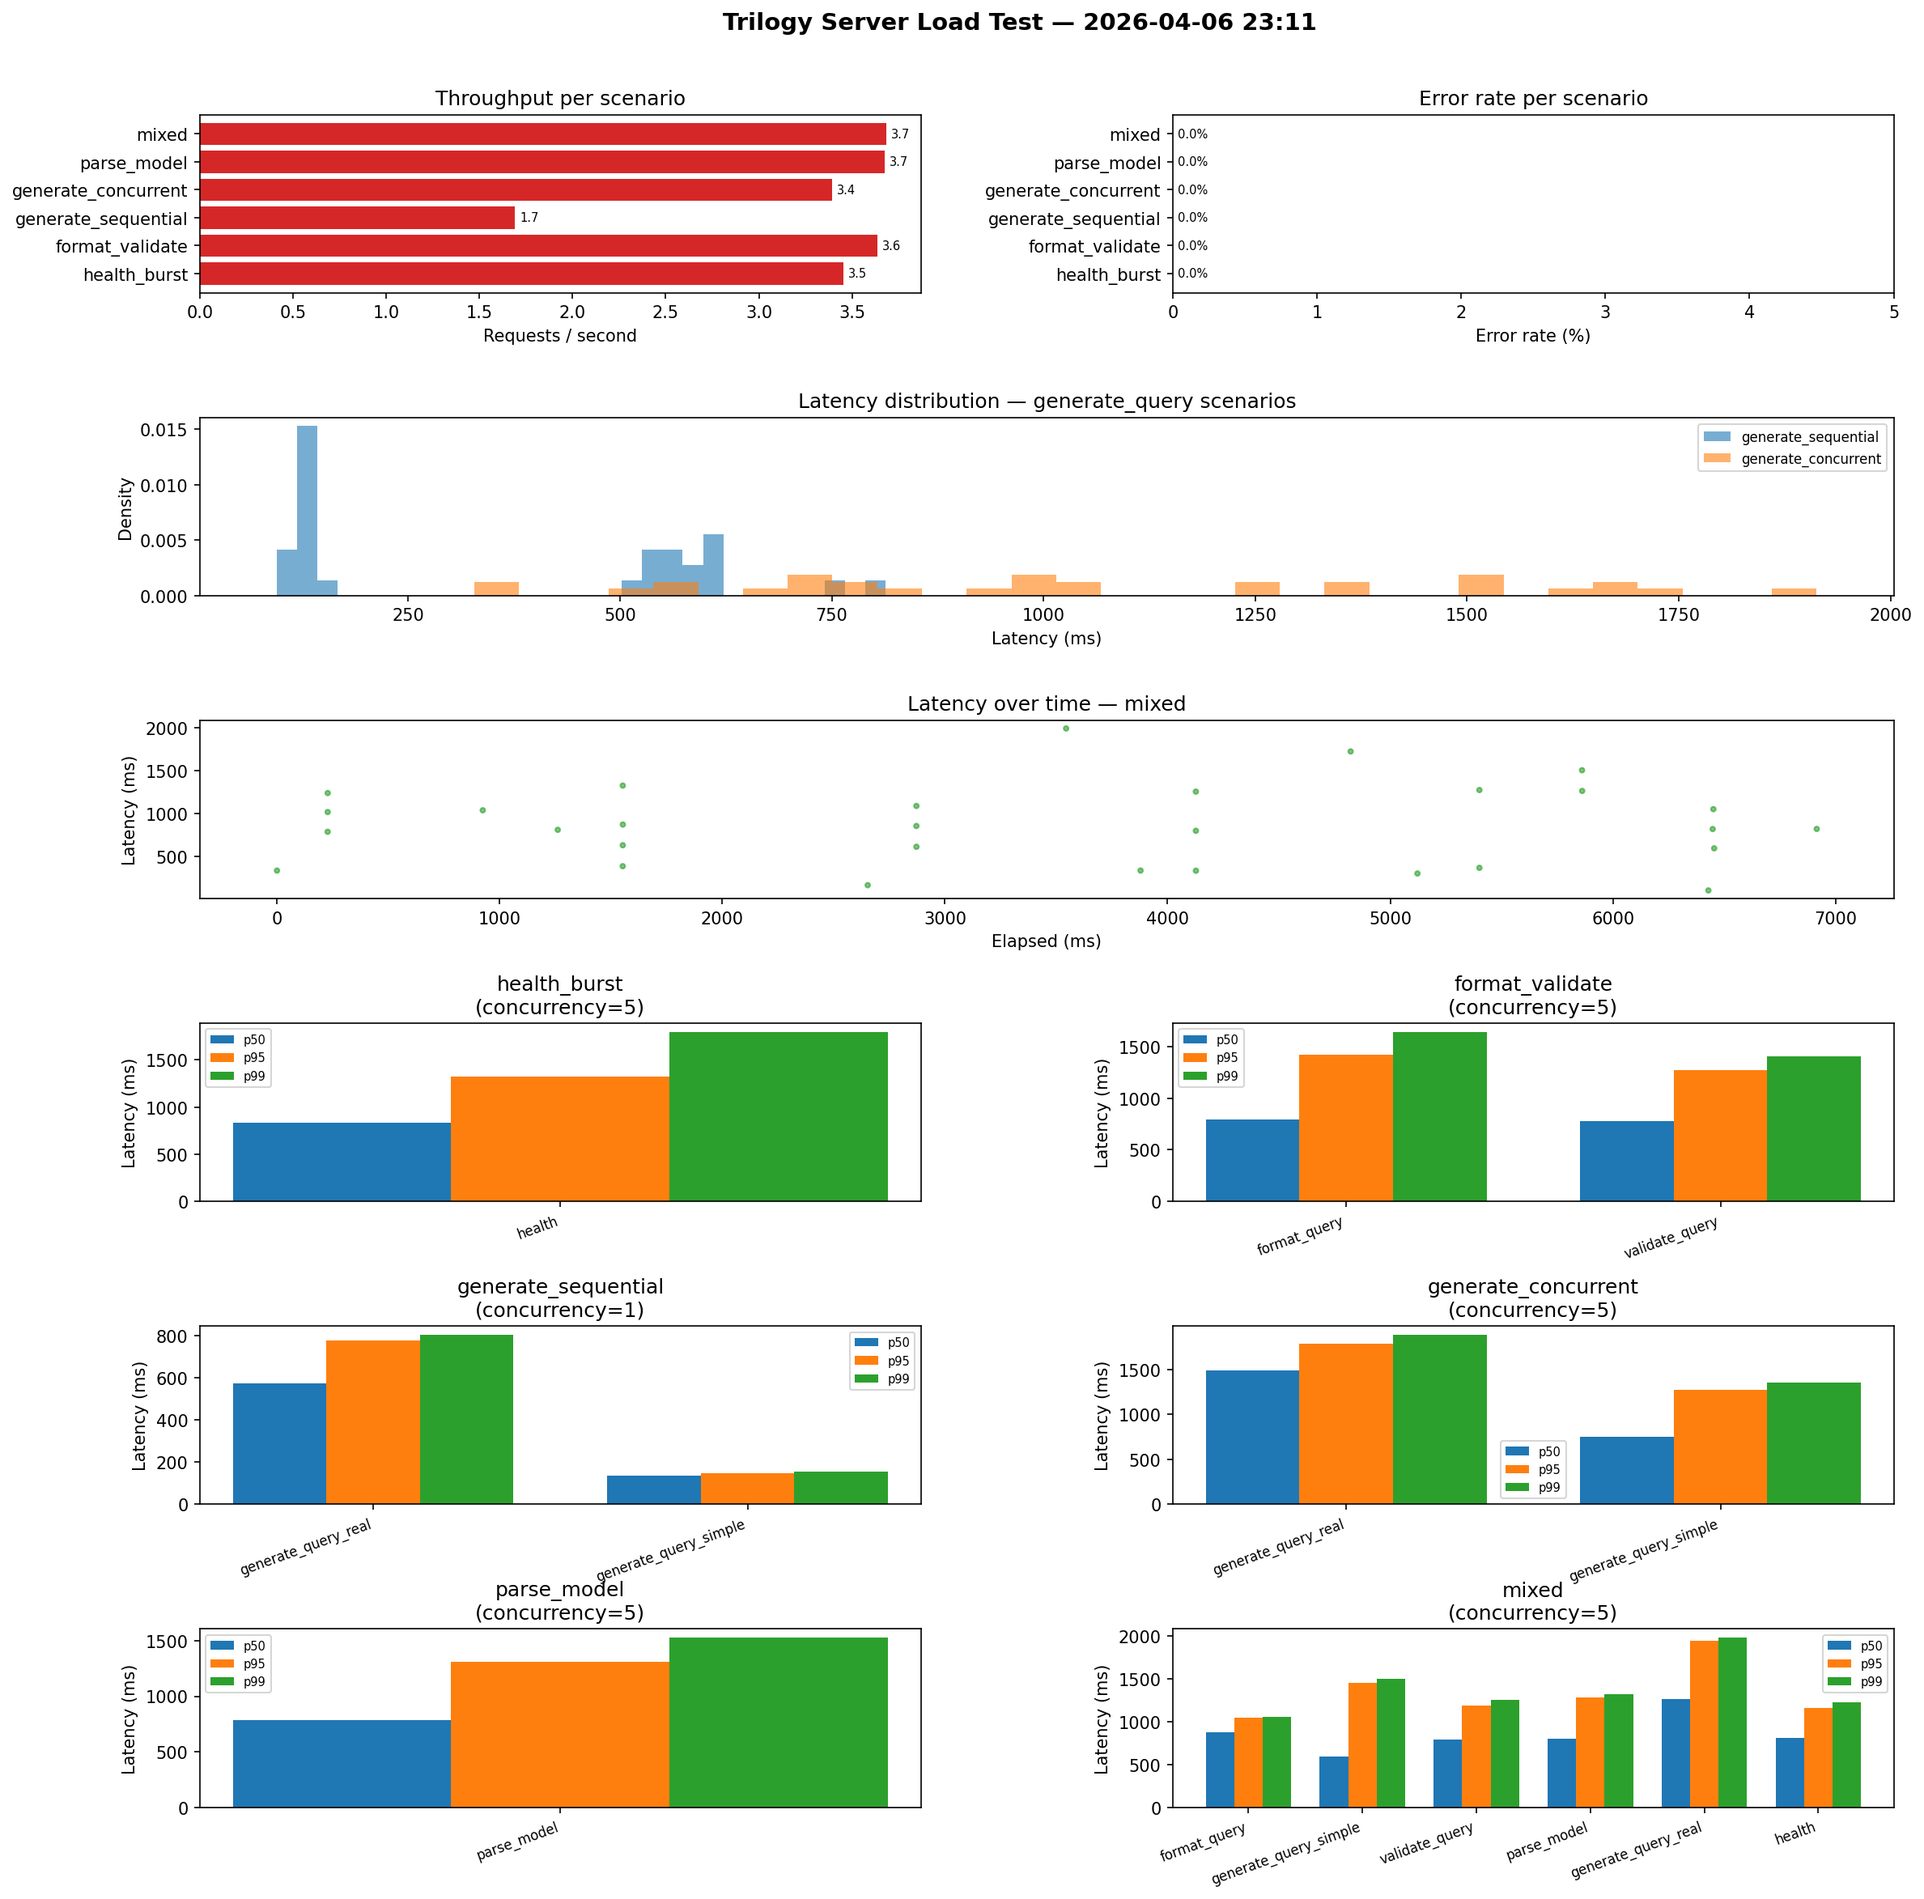
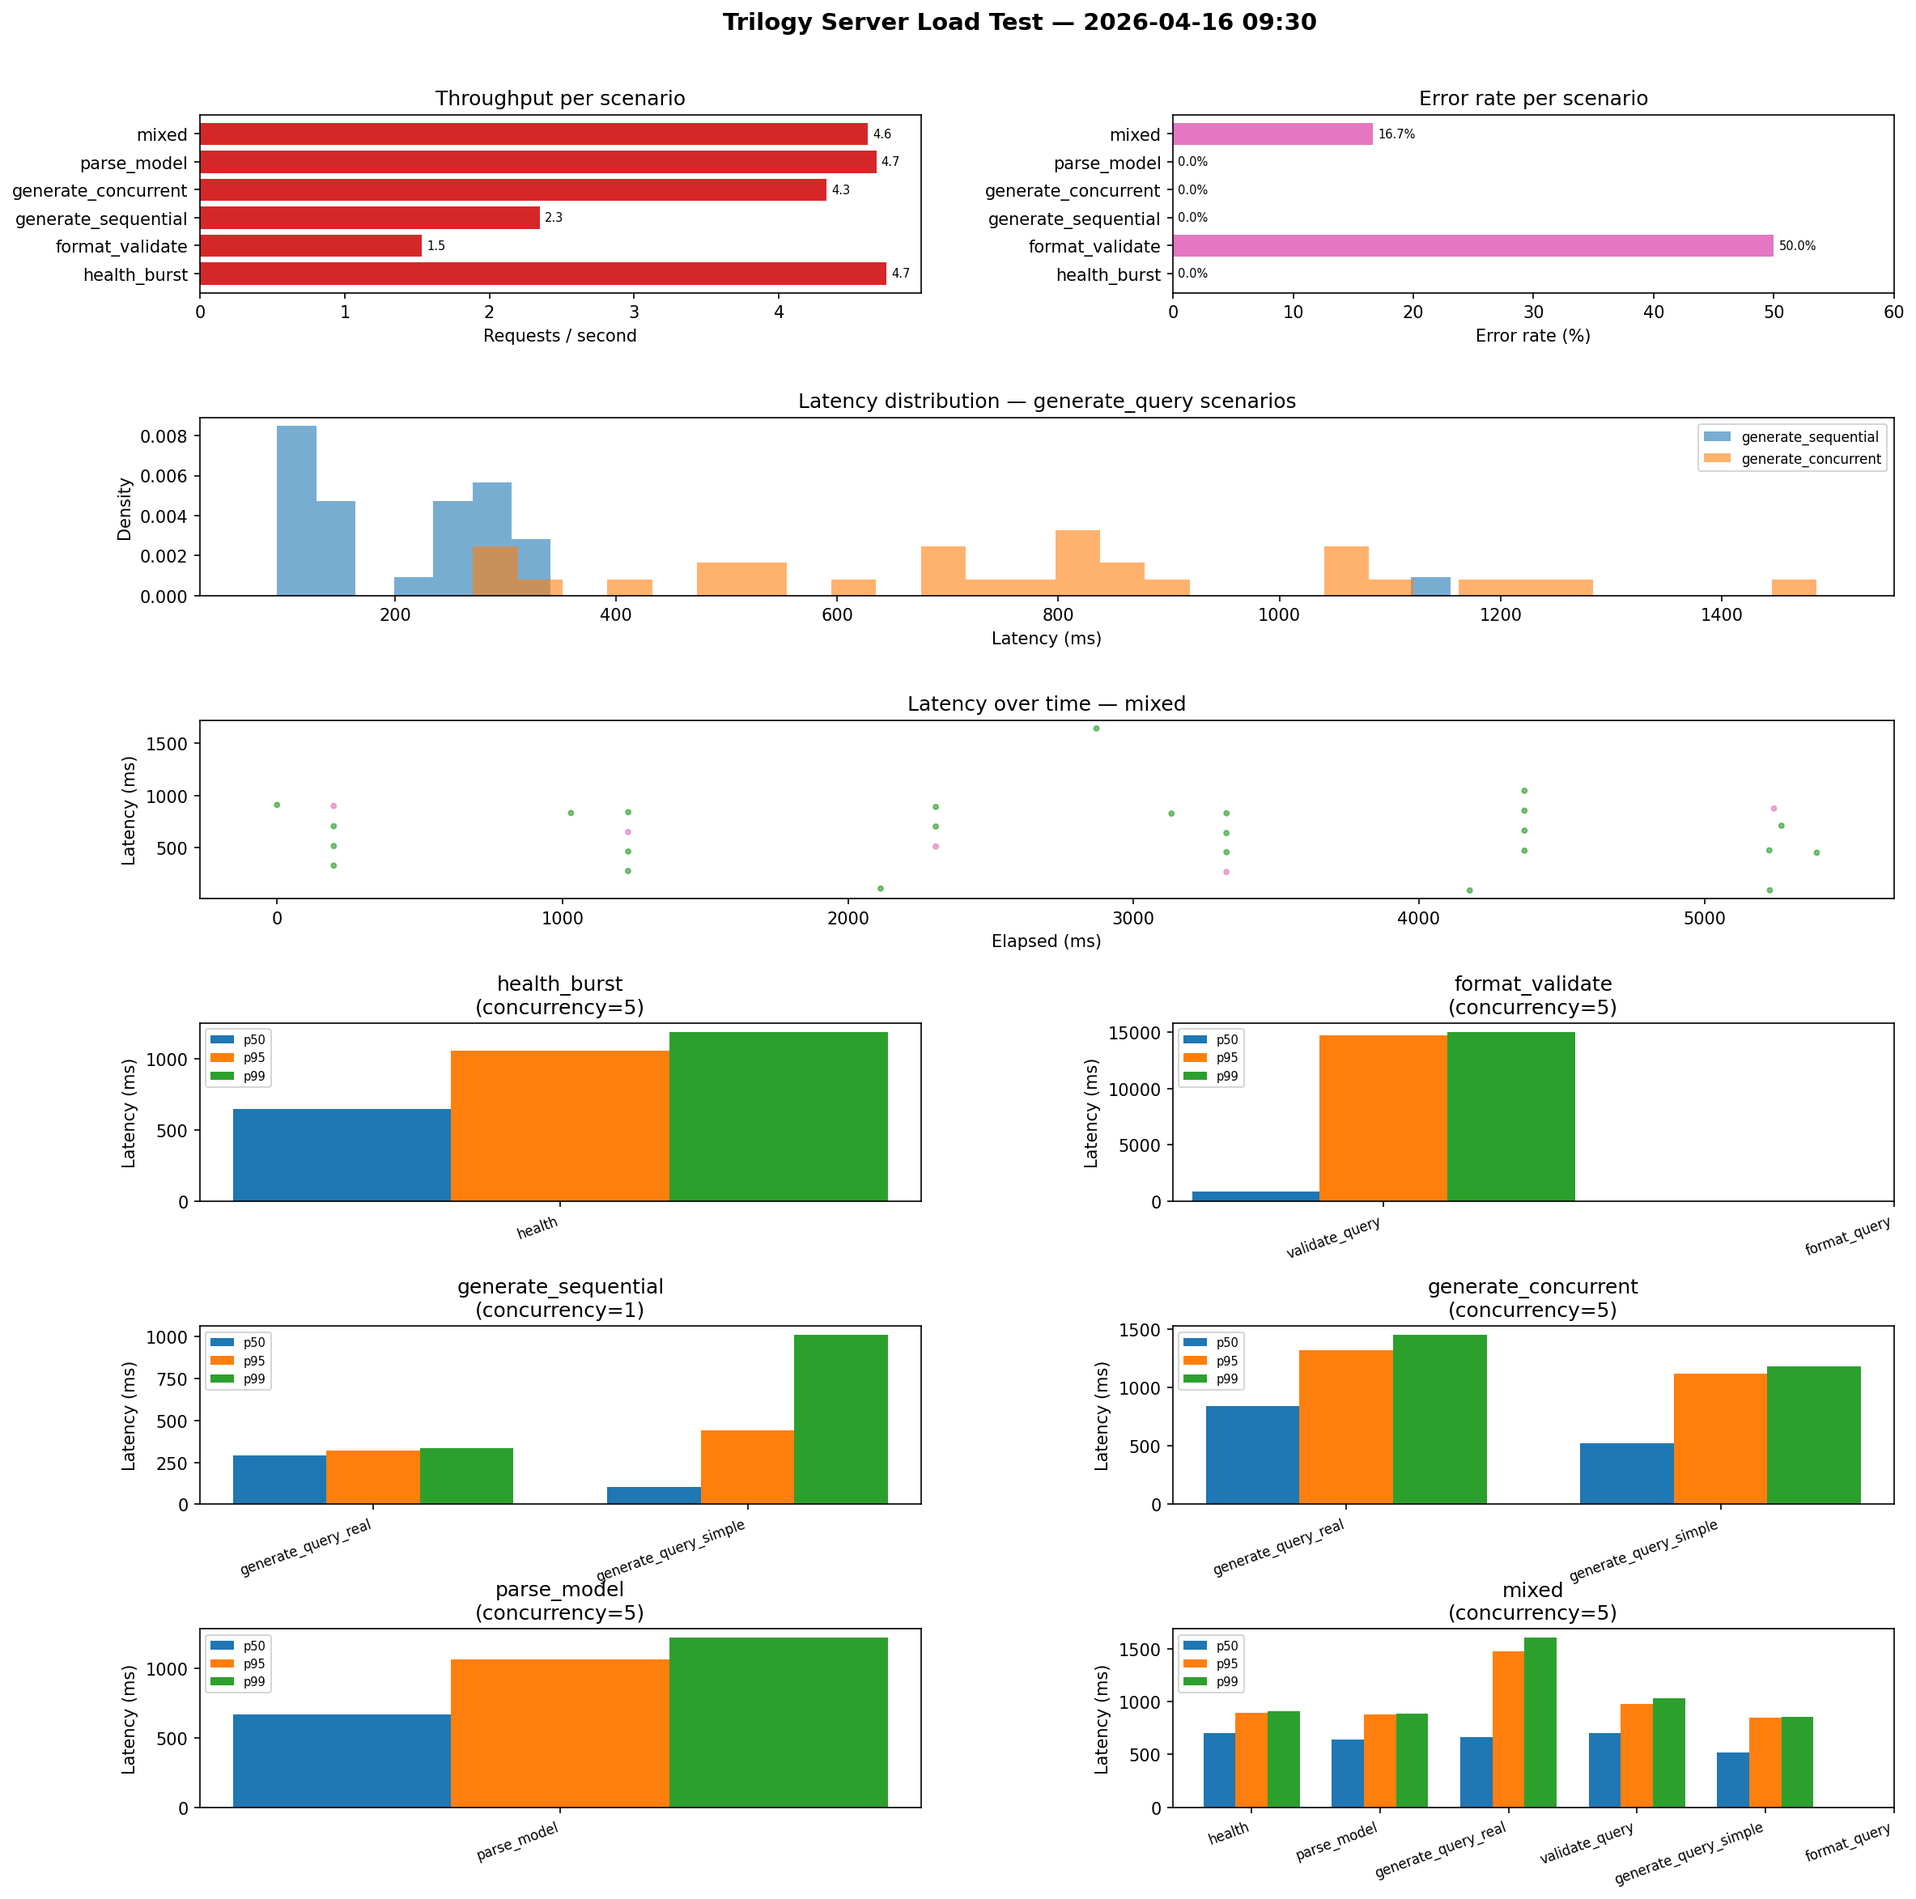
fix_format_endpoint

diff --git a/pyserver/studio_endpoints.py b/pyserver/studio_endpoints.py
@@ -93,9 +93,17 @@ def _format_query_task(query_data: dict) -> dict:
     query = QueryInSchema.model_validate(query_data)
     env = parse_env_from_full_model(query.full_model.sources)
     try:
+        base_imp_string = ""
+        for imp in query.imports:
+            resolved = resolve_import_path(imp.name, query.current_filename)
+            if imp.alias:
+                base_imp_string += f"import {resolved} as {imp.alias};\n"
+            else:
+                base_imp_string += f"import {resolved};\n"
         _, parsed = parse_text(
             safe_format_query(
-                normalize_relative_imports(query.query, query.current_filename)
+                base_imp_string
+                + normalize_relative_imports(query.query, query.current_filename)
             ),
             env,
             parse_config=PARSE_CONFIG,

diff --git a/pyserver/tests/test_app.py b/pyserver/tests/test_app.py
@@ -54,7 +54,7 @@ def test_format_query(test_client: TestClient):
 
     request = QueryInSchema(
         imports=[Import(name="test", alias="")],
-        query="import test; select name, customer_count;",
+        query="select name, customer_count;",
         dialect=Dialects.DUCK_DB,
         full_model=ModelInSchema(
             name="test_parse",
@@ -203,7 +203,7 @@ def test_format_query_bypasses_process_pool(test_client: TestClient, monkeypatch
 
     request = QueryInSchema(
         imports=[Import(name="test", alias="")],
-        query="import test; select name, customer_count;",
+        query="select name, customer_count;",
         dialect=Dialects.DUCK_DB,
         full_model=ModelInSchema(
             name="test_parse",
